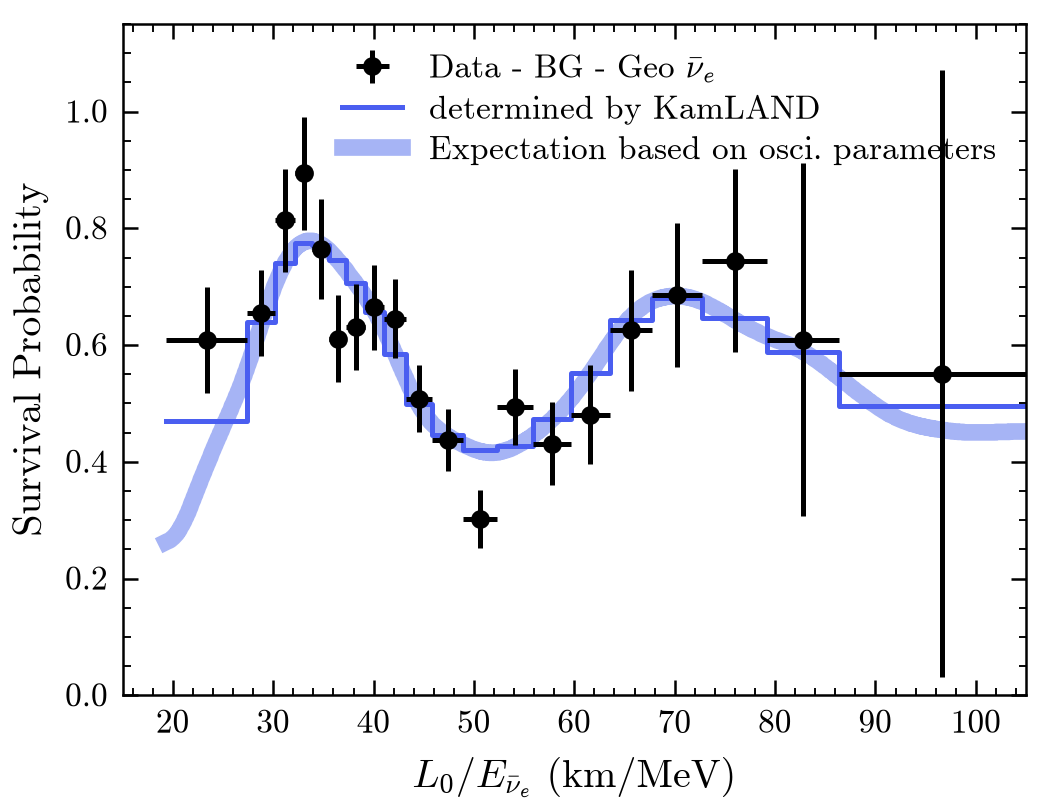
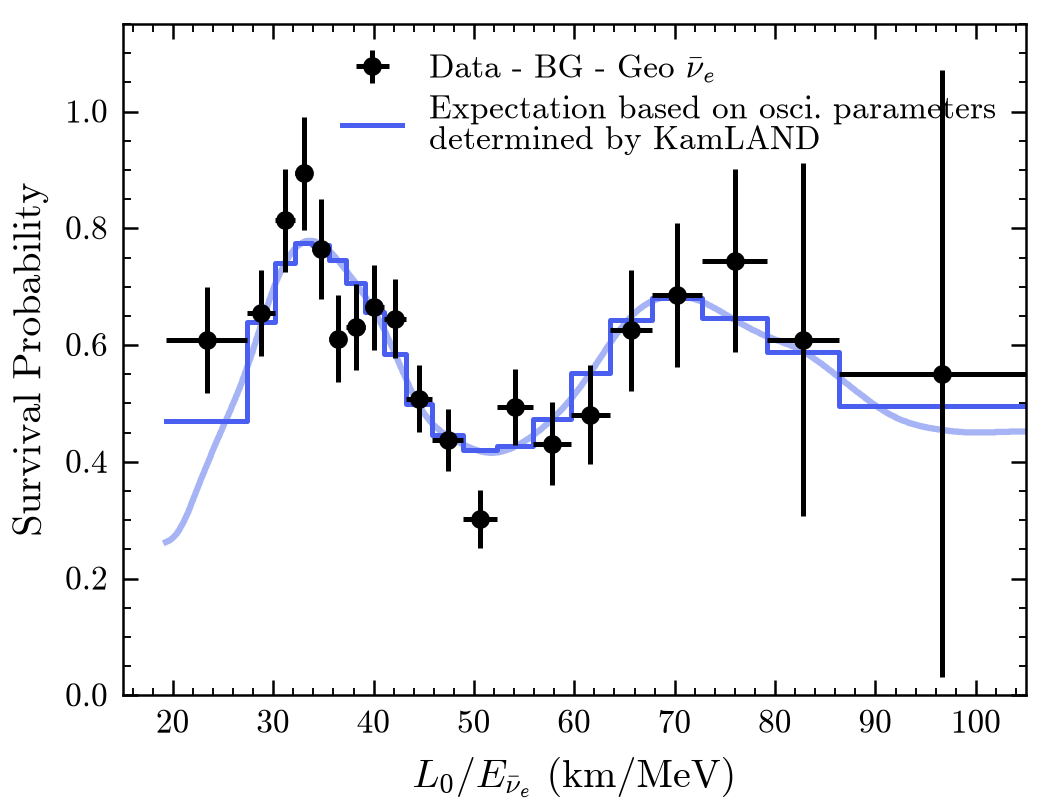
Famous plots: aim at the originals' look
- Bands are solid (plot_settings.band_alpha 1), in the originals' colours:
  pure green/yellow for the ATLAS limits, light blue for the local p0.
- F05: dotted expected and mu = 1 lines. F04: small markers on the
  observed curve, dotted sigma lines with 0-6 sigma labels outside the
  frame. F03: the legend in CMS's order (--legend_order data). F01: the
  legend inside, the energy lines inside the panel as in the ATLAS figure.
- F08: no legend, Hubble's grid lines, a black dashed groups line.
- F10: black contours (config_color). F16: a thin expectation curve and
  one two-line legend entry. F17: thin curves. F14: the uncertainty as a
  light-grey row of its own (the band had taken the reconstruction's
  black). F22: no colorbar label. F13: x up to 2030.
- Gap notes for what needs new features: per-figure fonts and rcParams
  (follow-up), bold text in the paper font, contour labels and arrows
  (T22.8), two-column legends with band swatches (T20).
- F01 keeps its earlier gallery image until the column: lower panel
  draws the model curves again.

diff --git a/examples/famous/climate.py b/examples/famous/climate.py
@@ -49,9 +49,11 @@ def hockey_stick():
     1998), as in Fig. 3(a) and its caption.
     Ours: the 40-year running mean and the linear trend over 1000-1850.
 
-    Rows: ``Series`` (Reconstruction, 40-year smoothed, Instrumental,
-    Linear trend), x ``Year``, y ``Anomaly`` (deg C). ``AnomalyError`` is
-    two standard errors.
+    Rows: ``Series`` (Uncertainty, Reconstruction, 40-year smoothed,
+    Instrumental, Linear trend), x ``Year``, y ``Anomaly`` (deg C). The
+    Uncertainty row is the reconstruction with ``AnomalyError`` (two standard
+    errors) and ``Width`` 0: the light grey band of the figure, drawn in its
+    own colour without a line.
     """
     table = pd.read_csv(DATA / "mann99-nhem-noaa.txt", sep="\t", comment="#", na_values=[-999])
     reconstructed = table.dropna(subset=["nhem_recon"])
@@ -63,7 +65,8 @@ def hockey_stick():
     slope, intercept = np.polyfit(year[early], reconstruction[early], 1)
     rows = [
         {"Year": year, "Anomaly": reconstruction, "AnomalyError": reconstructed["nhem_2se"].to_numpy(),
-         "Series": "Reconstruction", "Width": 0.8},
+         "Series": "Uncertainty", "Width": 0.0},
+        {"Year": year, "Anomaly": reconstruction, "Series": "Reconstruction", "Width": 0.8},
         {"Year": year, "Anomaly": smoothed, "Series": "40-year smoothed", "Width": 2.5},
         {"Year": instrumental["age_CE"].to_numpy(), "Anomaly": instrumental["nhem_raw"].to_numpy(),
          "Series": "Instrumental", "Width": 0.8},

diff --git a/examples/famous/hep.py b/examples/famous/hep.py
@@ -219,7 +219,7 @@ def kamland():
         # The expectation histogram as its outline, in drawing order (a step polyline).
         {"LOverE": histogram["l_over_e"].to_numpy(), "SurvivalProbability": histogram["survival"].to_numpy(),
          "Component": "Expectation (histogram)"},
-        {"LOverE": curve_le, "SurvivalProbability": curve, "Component": "Expectation (curve)", "Width": 4.0},
+        {"LOverE": curve_le, "SurvivalProbability": curve, "Component": "Expectation (curve)", "Width": 1.5},
     ]
     return {"KamLAND": pd.DataFrame(rows)}
 
@@ -253,7 +253,7 @@ def z_lineshape():
     for kind, n_nu in (("2nu", 2), ("3nu", 3), ("4nu", 4)):
         energy, sigma = _sorted(table[table.kind == kind], "energy", "sigma_had")
         rows.append({"Energy": energy, "CrossSection": sigma, "Model": f"{n_nu}$\\nu$",
-                     "Width": 3.0 if n_nu == 3 else 1.2})
+                     "Width": 1.5 if n_nu == 3 else 1.0})
     return {"ZLineshape": pd.DataFrame(rows)}
 
 

diff --git a/examples/famous/README.md b/examples/famous/README.md
@@ -83,6 +83,13 @@ reproduced. ◐ close, with the gaps listed under "Missing features" below;
 the intended command for a planned option is in
 `input/plots/famous_scripts.txt`, commented out.
 
+The commands aim at the originals, not at plotipus's own style: the
+originals' colours, line styles, markers, legend layout and annotations,
+so the gallery shows that plotipus can draw what others drew. Fonts
+and other rcParams are still the paper medium's for every figure (a
+per-command style file is a follow-up request). The same figures redrawn
+with plotipus's defaults are the style guide's before-and-after examples.
+
 Patterns the commands use:
 
 - **Data and models in one figure.** `--data_hue` draws the measured series
@@ -102,19 +109,19 @@ Patterns the commands use:
 |---|---|---|---|---|
 | F01 H→γγ m_γγ | ATLAS, PLB 716 (2012) 1, Fig. 4 | **extracted** (figure) | ◐ | (ATLAS header inside: `--experiment atlas --label_position inside`) 4 panels in one figure (T22.6); residual vs a fit component (T22.14); the Sig+Bkg − Bkg curve in the lower panel, drawn by T21 and lost in the example-feedback-3 merge (follow-up; the gallery image predates it) |
 | F03 H→ZZ*→4ℓ | CMS, PLB 716 (2012) 30, Fig. 4 | **extracted** (figure) | ◐ | (CMS header above: `--experiment cms`; Garwood bars from the counts: `--errory_type poisson`; the signal as an open outline on the filled stack: `--series_type Signal=step --plot_type fill`) inset (T22.7) |
-| F04 local p₀ | ATLAS, Fig. 9 | **extracted** (figure) | ◐ | (ATLAS header with two right lines; markers on the observed curve: `--series_marker Observed=o:5`) band legend swatch and σ-line labels (T20) |
-| F05 Brazil band | ATLAS, Fig. 7(a) | **extracted** (figure) | ◐ | (ATLAS header) saturated band colours and swatches (T20) |
+| F04 local p₀ | ATLAS, Fig. 9 | **extracted** (figure) | ◐ | (ATLAS header with two right lines; small markers on the observed curve: `--series_marker Observed=o:2.5`; σ labels outside the frame: `--text` at x = 150.6) band legend swatch (T20) |
+| F05 Brazil band | ATLAS, Fig. 7(a) | **extracted** (figure) | ◐ | (ATLAS header; solid green and yellow bands: `plot_settings.band_alpha` 1 in style.json; dotted expected and μ = 1 lines) band swatches in a two-column legend (T20) |
 | F06 COBE FIRAS | Fixsen et al. 1996, Figs. 4-5 | **real** (NASA LAMBDA) | ✅ | (errors ×400 with `--error_scale 400`) a top axis in GHz (TODO.md, postponed) |
-| F08 Hubble 1929 | PNAS 15, 168, Fig. 1 | **real** (Table 1) | ✅ | (discs, open circles and a cross: `--series_marker ... Groups=o_open ...`) |
+| F08 Hubble 1929 | PNAS 15, 168, Fig. 1 | **real** (Table 1) | ✅ | (discs, open circles and a cross: `--series_marker ... Groups=o_open ...`; no legend, Hubble's grid lines: `--horizontal`/`--vertical`) a bold title (paper font, follow-up) |
 | F09 SN Ia Hubble diagram | Riess et al. 1998, Fig. 4 | **real** (Union2.1) | ◐ | (plain log tick labels: T12 follow-up) the cosmologies' residual curves in the lower panel, lost in the example-feedback-3 merge (follow-up) |
-| F10 Ω_M–Ω_Λ | Riess et al. 1998, Fig. 6 | **real** (Union2.1), synthetic CMB | ◐ | (no best-fit marker, as in the original: `--no_best_fit`) the shaded "No Big Bang" region (T22.8) |
+| F10 Ω_M–Ω_Λ | Riess et al. 1998, Fig. 6 | **real** (Union2.1), synthetic CMB | ◐ | (no best-fit marker, as in the original: `--no_best_fit`; black contours: `config_color`) the shaded "No Big Bang" region and labels on the contours (T22.8) |
 | F11 rotation curves | Rubin, Ford & Thonnard 1980 | **real** (SPARC) | ◐ | an ordered colour map for 21 hues (T22.5); `--panel_title` on `line` panels (follow-up; the size classes are all-math labels so the title case leaves `kpc` alone) |
 | F12 NGC 3198 | van Albada et al. 1985 | **real** (SPARC); fitted halo | ✅ | (figure styles unverified) |
 | F13 Keeling curve | NOAA GML plot | **real** (NOAA GML) | ✅ | the seasonal-cycle inset of other versions (T22.7) |
-| F14 hockey stick | Mann, Bradley & Hughes 1999, Fig. 3(a) | **real** (NOAA paleo) | ✅ | — (the legend below the axes: `--legend_loc below`) |
+| F14 hockey stick | Mann, Bradley & Hughes 1999, Fig. 3(a) | **real** (NOAA paleo) | ✅ | (the legend below the axes: `--legend_loc below`; the uncertainty as a light-grey row of its own) the 1998 cross and arrow (T22.8) |
 | F15 GW150914 | PRL 116, 061102, Fig. 1 | **real** (GWOSC); synthetic band widths | ◐ | 4 × 2 grid (T22.6); log frequency axis on the map (T22.3); `--legend_panel all` collapses the H1 panels and `--title` is not drawn (T15 follow-up) |
-| F16 KamLAND L₀/E | PRL 100, 221803, Fig. 3 | **extracted** (figure) | ✅ | (x error bars from each point's bin: `--errorx_column LOverELow LOverEHigh`) |
-| F17 LEP Z lineshape | Phys. Rept. 427 (2006) 257, Fig. 1.13 | **extracted** (figure) | ✅ | (errors ×10 with `--error_scale 10`) labels on curves are `--text` (T22.8) |
+| F16 KamLAND L₀/E | PRL 100, 221803, Fig. 3 | **extracted** (figure) | ✅ | (x error bars from each point's bin: `--errorx_column LOverELow LOverEHigh`; one two-line legend entry for both expectations, the curve labelled `_nolegend_`) |
+| F17 LEP Z lineshape | Phys. Rept. 427 (2006) 257, Fig. 1.13 | **extracted** (figure) | ✅ | (errors ×10 with `--error_scale 10`; thin curves) labels on curves are `--text` (T22.8); blue frame, bold sans labels (per-figure style, follow-up) |
 | F19 Geiger–Marsden | Phil. Mag. 25, 604 (1913) | synthetic | ✅ | (no original figure) |
 | F20 Moseley's law | Phil. Mag. 26, 1024 (1913) | synthetic | ✅ | (no original figure) |
 | F21 Leavitt | Harvard Circ. 173 (1912) | synthetic | ✅ | (table not transcribed) |
@@ -125,7 +132,7 @@ Patterns the commands use:
 
 | task | missing feature | figures |
 |---|---|---|
-| T20 | band colours independent of the line, saturated fills, band legend swatches; labelled σ lines | F04, F05, F15 |
+| T20 | band colours independent of the line, band legend swatches; labelled σ lines | F04, F05, F15 |
 | T22.3 | a power (square-root) colour scale, a colour below the scale, `--cmap` for 2D histograms, `--colorbar none`; log y axis for `-z` images | F22, F15 |
 | T22.5 | an ordered colour map for many hues | F11 |
 | T22.6 | panel grids with shared axes (rows × columns) | F01, F15, F25 |

diff --git a/README.md b/README.md
@@ -198,8 +198,10 @@ Higgs, KamLAND and LEP plots, and synthetic data only for the 1912-1913 tables. 
 one was compared with the published figure. The data generators, the
 commands and what is still missing are in
 [examples/famous](examples/famous/README.md); `make -C examples famous`
-renders them all and refreshes these images. The images use the paper
-style: serif text, a 3.5 in column width and one figure size for all.
+renders them all and refreshes these images. Each command aims at the
+original's look (its colours, line styles, markers, legend and
+annotations); the text is the paper style's serif at a 3.5 in column
+width, one figure size for all.
 
 <p align="center">
   <a href="https://arxiv.org/abs/1207.7214"><img src="docs/images/famous/higgs-diphoton.png" width="32%" alt="Diphoton mass spectrum with the Higgs boson bump, a signal plus background fit and the data minus background"></a>
@@ -211,7 +213,7 @@ style: serif text, a 3.5 in column width and one figure size for all.
   <a href="https://arxiv.org/abs/0801.4589"><img src="docs/images/famous/kamland.png" width="32%" alt="Reactor antineutrino survival probability against L/E with the oscillation expectation"></a>
   <br><sub><a href="https://arxiv.org/abs/1207.7214">Brazil band, ATLAS 2012</a> · <a href="https://arxiv.org/abs/hep-ex/0509008">Z lineshape, LEP 2006</a> · <a href="https://arxiv.org/abs/0801.4589">neutrino oscillation, KamLAND 2008</a></sub><br><br>
   <a href="https://arxiv.org/abs/astro-ph/9805201"><img src="docs/images/famous/omega-contours.png" width="32%" alt="Confidence regions in the matter and dark-energy densities with deceleration and geometry lines"></a>
-  <a href="https://doi.org/10.1073/pnas.15.3.168"><img src="docs/images/famous/hubble-1929.png" width="32%" alt="Velocity against distance of 24 nebulae with Hubble's two fitted lines"></a>
+  <a href="https://doi.org/10.1073/pnas.15.3.168"><img src="docs/images/famous/hubble-1929.png" width="32%" alt="Velocity against distance of 24 nebulae and 9 groups with Hubble's two fitted lines on his grid"></a>
   <a href="https://arxiv.org/abs/1804.09378"><img src="docs/images/famous/hr-diagram.png" width="32%" alt="Hertzsprung-Russell diagram of 66 million Gaia DR2 stars on a square-root colour scale"></a>
   <br><sub><a href="https://arxiv.org/abs/astro-ph/9805201">Ω<sub>M</sub>–Ω<sub>Λ</sub>, Riess et al. 1998 (Union2.1 data)</a> · <a href="https://doi.org/10.1073/pnas.15.3.168">Hubble 1929 (real data)</a> · <a href="https://arxiv.org/abs/1804.09378">HR diagram, Gaia DR2 2018 (real data)</a></sub><br><br>
   <a href="https://gml.noaa.gov/ccgg/trends/"><img src="docs/images/famous/keeling.png" width="32%" alt="Monthly atmospheric CO2 at Mauna Loa since 1958 with the deseasonalised trend"></a>
